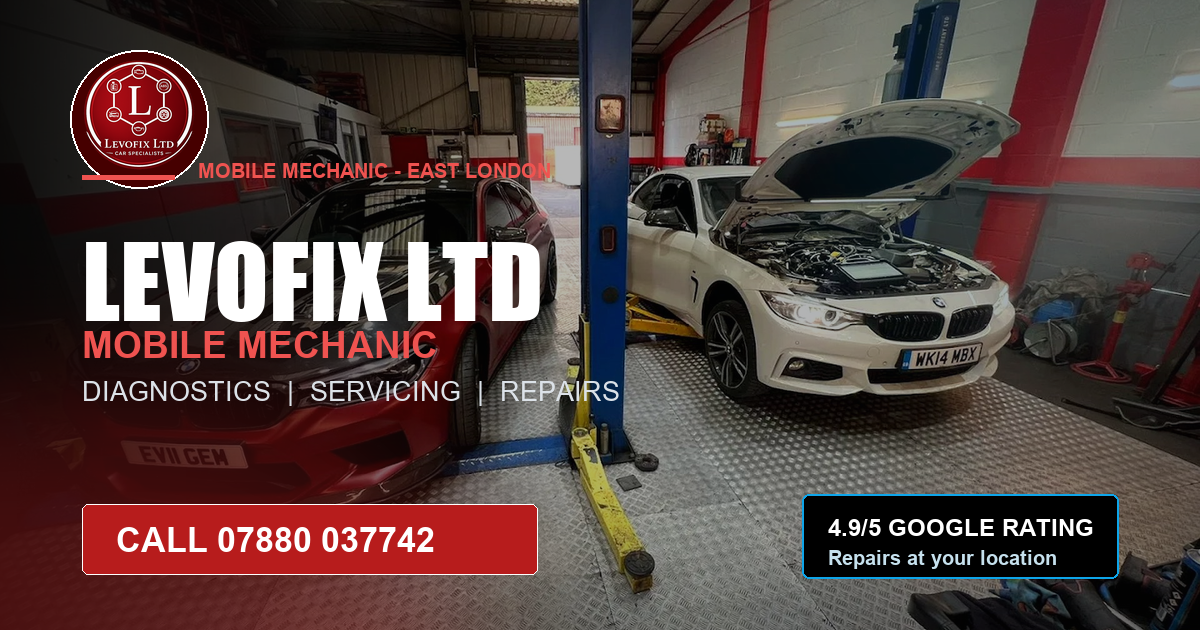
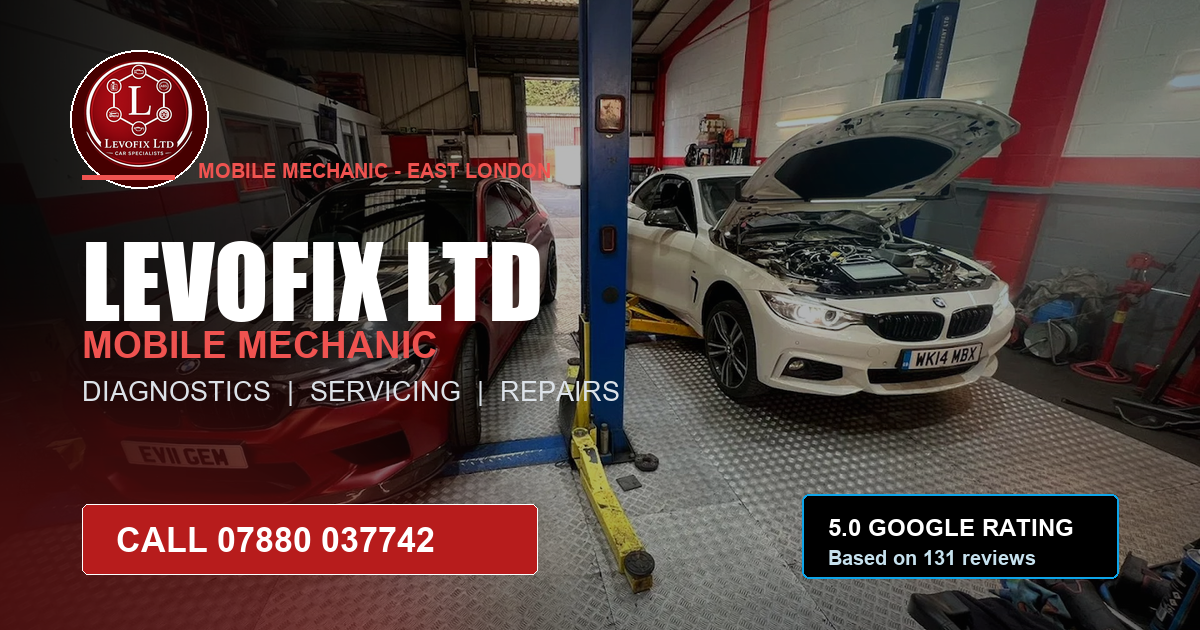
Polish hero header and business details

Changed region(s): [[0.6783, 0.8143, 0.925, 0.9048]]

diff --git a/src/index.css b/src/index.css
@@ -116,6 +116,129 @@
   .animation-delay-700 { animation-delay: 700ms; }
 }
 
+@media (min-width: 1024px) {
+  .site-navbar:not(.border-b) {
+    background: linear-gradient(
+      180deg,
+      rgba(5, 5, 5, 0.72) 0%,
+      rgba(5, 5, 5, 0.42) 58%,
+      rgba(5, 5, 5, 0) 100%
+    );
+  }
+
+  .navbar-brand-title,
+  .navbar-link,
+  .navbar-phone span {
+    text-shadow: 0 2px 12px rgba(0, 0, 0, 0.85);
+  }
+
+  .navbar-brand-subtitle {
+    color: rgba(255, 255, 255, 0.54);
+  }
+
+  .navbar-link {
+    color: rgba(255, 255, 255, 0.68);
+  }
+
+  .navbar-phone {
+    color: rgba(255, 255, 255, 0.7);
+  }
+
+  .navbar-phone > div {
+    background: rgba(14, 165, 233, 0.08);
+    border-color: rgba(14, 165, 233, 0.42);
+  }
+
+  .navbar-phone svg {
+    color: rgba(14, 165, 233, 0.9);
+  }
+
+  .hero-side-stats {
+    right: 5.5rem;
+    bottom: 8rem;
+    gap: 1.45rem;
+    padding-right: 1.35rem;
+    border-right: 2px solid rgba(239, 83, 80, 0.48);
+    filter: drop-shadow(0 12px 28px rgba(0, 0, 0, 0.72));
+  }
+
+  .hero-stat-value {
+    color: rgba(255, 255, 255, 0.52);
+    text-shadow: 0 3px 16px rgba(0, 0, 0, 0.9);
+  }
+
+  .hero-stat-label {
+    color: rgba(255, 255, 255, 0.68);
+    text-shadow: 0 2px 12px rgba(0, 0, 0, 0.95);
+  }
+
+  .hero-side-stats div:nth-child(2) .hero-stat-value {
+    color: rgba(14, 165, 233, 0.9);
+  }
+
+  .hero-side-stats div:nth-child(2) .hero-stat-label {
+    color: rgba(14, 165, 233, 0.92);
+  }
+
+  .hero-scroll button {
+    padding: 0.65rem 0.9rem;
+    border-radius: 999px;
+    background: rgba(5, 5, 5, 0.28);
+    color: rgba(255, 255, 255, 0.5);
+    text-shadow: 0 2px 12px rgba(0, 0, 0, 0.95);
+    backdrop-filter: blur(6px);
+  }
+
+  .hero-scroll button:hover {
+    color: rgba(255, 255, 255, 0.78);
+    background: rgba(5, 5, 5, 0.38);
+  }
+}
+
+@media (max-width: 768px) {
+  body,
+  main {
+    padding-top: 0;
+  }
+
+  .site-navbar {
+    position: fixed;
+    top: 0;
+    left: 0;
+    right: 0;
+    width: 100%;
+    z-index: 1000;
+    margin-top: 0;
+    padding-top: 0 !important;
+    padding-bottom: 0 !important;
+    transform: none;
+    background: rgba(10, 10, 10, 0.96);
+    border-bottom: 1px solid rgba(255, 255, 255, 0.07);
+    box-shadow: 0 10px 28px rgba(0, 0, 0, 0.22);
+    backdrop-filter: blur(14px);
+  }
+
+  .navbar-inner {
+    min-height: calc(78px + env(safe-area-inset-top));
+    padding-top: calc(10px + env(safe-area-inset-top));
+    padding-bottom: 10px;
+  }
+
+  .navbar-row {
+    min-height: 58px;
+    align-items: center;
+  }
+
+  .navbar-brand > div:first-child {
+    width: 58px;
+    height: 58px;
+  }
+
+  .site-navbar button[aria-label='Toggle menu'] {
+    color: rgba(255, 255, 255, 0.82);
+  }
+}
+
 @media (max-width: 768px) {
   .hero {
     min-height: 100svh;
@@ -155,7 +278,7 @@
   }
 
   .hero-shell {
-    padding-top: 112px;
+    padding-top: calc(112px + env(safe-area-inset-top));
     padding-bottom: calc(86px + env(safe-area-inset-bottom));
     min-height: 100svh;
     display: flex;
@@ -239,7 +362,7 @@
   .hero-shell {
     padding-left: 20px;
     padding-right: 20px;
-    padding-top: 104px;
+    padding-top: calc(104px + env(safe-area-inset-top));
     padding-bottom: calc(78px + env(safe-area-inset-bottom));
   }
 
@@ -291,7 +414,7 @@
 
 @media (max-width: 380px) {
   .hero-shell {
-    padding-top: 96px;
+    padding-top: calc(96px + env(safe-area-inset-top));
   }
 
   .hero .hero-title {

diff --git a/src/sections/Navbar.tsx b/src/sections/Navbar.tsx
@@ -39,14 +39,14 @@ const Navbar = ({ scrollY }: NavbarProps) => {
   return (
     <>
       <nav
-        className={`fixed top-0 left-0 right-0 z-50 transition-all duration-500 ${
+        className={`site-navbar fixed top-0 left-0 right-0 z-50 transition-all duration-500 ${
           isScrolled
             ? 'bg-[#0a0a0a]/90 backdrop-blur-xl border-b border-white/5 py-3'
             : 'bg-transparent py-6'
         }`}
       >
-        <div className="w-full section-padding">
-          <div className="flex items-center justify-between">
+        <div className="navbar-inner w-full section-padding">
+          <div className="navbar-row flex items-center justify-between">
             {/* Logo */}
             <a
               href="#home"
@@ -54,16 +54,16 @@ const Navbar = ({ scrollY }: NavbarProps) => {
                 e.preventDefault();
                 scrollToSection('#home');
               }}
-              className="flex items-center gap-3 group"
+              className="navbar-brand flex items-center gap-3 group"
             >
               <div className="w-[4.5rem] h-[4.5rem] rounded-full overflow-hidden transition-all duration-300 group-hover:shadow-glow">
                 <img src="/Logo1.png" alt="Levofix Ltd" className="w-full h-full object-contain" />
               </div>
               <div className="hidden sm:block">
-                <span className="font-bebas text-2xl text-white block leading-none tracking-wider">
+                <span className="navbar-brand-title font-bebas text-2xl text-white block leading-none tracking-wider">
                   LEVOFIX
                 </span>
-                <span className="text-white/30 text-[10px] font-outfit uppercase tracking-[0.2em]">Mobile Mechanic</span>
+                <span className="navbar-brand-subtitle text-white/30 text-[10px] font-outfit uppercase tracking-[0.2em]">Mobile Mechanic</span>
               </div>
             </a>
 
@@ -77,7 +77,7 @@ const Navbar = ({ scrollY }: NavbarProps) => {
                     e.preventDefault();
                     scrollToSection(link.href);
                   }}
-                  className="relative px-5 py-2 text-white/50 hover:text-white transition-colors duration-300 font-outfit text-sm uppercase tracking-wider group"
+                  className="navbar-link relative px-5 py-2 text-white/50 hover:text-white transition-colors duration-300 font-outfit text-sm uppercase tracking-wider group"
                 >
                   {link.name}
                   <span className="absolute bottom-0 left-1/2 -translate-x-1/2 w-0 h-[2px] bg-brand-red group-hover:w-5 transition-all duration-300" />
@@ -89,7 +89,7 @@ const Navbar = ({ scrollY }: NavbarProps) => {
             <div className="hidden lg:flex items-center gap-5">
               <a
                 href="tel:07880037742"
-                className="flex items-center gap-2 text-white/40 hover:text-brand-redLight transition-colors duration-300 group"
+                className="navbar-phone flex items-center gap-2 text-white/40 hover:text-brand-redLight transition-colors duration-300 group"
               >
                 <div className="w-8 h-8 rounded-full border border-brand-blueElectric/20 flex items-center justify-center group-hover:border-brand-blueElectric/50 transition-colors">
                   <Phone className="w-3.5 h-3.5 text-brand-blueElectric/60 group-hover:text-brand-blueElectric" />

diff --git a/index.html b/index.html
@@ -6,7 +6,7 @@
 
     <!-- Primary SEO -->
     <title>Mobile Mechanic London | Levofix LTD — Poplar, East London</title>
-    <meta name="description" content="Levofix LTD — professional mobile mechanic based in Poplar, East London. Car diagnostics, servicing, brakes, suspension & fault finding at your location. Call Denis: 07880 037742. Rated 4.9★ on Google." />
+    <meta name="description" content="Levofix LTD — professional mobile mechanic based in Poplar, East London. Car diagnostics, servicing, brakes, suspension & fault finding at your location. Call Denis: 07880 037742. Rated 5.0★ on Google." />
     <meta name="keywords" content="mobile mechanic london, mobile mechanic east london, mobile mechanic poplar, mobile mechanic e14, car diagnostics london, mobile car mechanic london, car repairs at home london, mobile mechanic canary wharf, engine diagnostics london, brake repair london, mobile mechanic near me, car servicing at home london, pre purchase inspection london" />
     <meta name="robots" content="index, follow" />
     <meta name="author" content="Denis Levoskin — Levofix LTD" />
@@ -16,7 +16,7 @@
     <meta property="og:type" content="website" />
     <meta property="og:url" content="https://www.levofix.co.uk/" />
     <meta property="og:title" content="Mobile Mechanic London | Levofix LTD — Poplar, East London" />
-    <meta property="og:description" content="Professional mobile mechanic based in Poplar, East London. Car diagnostics, servicing, brakes, suspension & fault finding at your location. Rated 4.9★ on Google from 61 reviews." />
+    <meta property="og:description" content="Professional mobile mechanic based in Poplar, East London. Car diagnostics, servicing, brakes, suspension & fault finding at your location. Rated 5.0★ on Google from 131 reviews." />
     <meta property="og:image" content="https://www.levofix.co.uk/og-image.png" />
     <meta property="og:image:width" content="1200" />
     <meta property="og:image:height" content="630" />
@@ -59,10 +59,10 @@
       },
       "address": {
         "@type": "PostalAddress",
-        "streetAddress": "75 Wallwood Street",
+        "streetAddress": "Unit 13, Green Shield Industrial Estate, Bradfield Road",
         "addressLocality": "Poplar",
         "addressRegion": "London",
-        "postalCode": "E14 7GS",
+        "postalCode": "E16 2AU",
         "addressCountry": "GB"
       },
       "geo": {
@@ -102,8 +102,8 @@
       },
       "aggregateRating": {
         "@type": "AggregateRating",
-        "ratingValue": "4.9",
-        "reviewCount": "61",
+        "ratingValue": "5.0",
+        "reviewCount": "131",
         "bestRating": "5",
         "worstRating": "1"
       },
@@ -112,7 +112,7 @@
       "currenciesAccepted": "GBP",
       "foundingDate": "2020",
       "sameAs": [
-        "https://www.google.com/maps/search/Levofix+LTD+75+Wallwood+Street+London+E14+7GS"
+        "https://www.google.com/maps/search/Levofix+Ltd+Mobile+Mechanic+Poplar+Unit+13+Green+Shield+Industrial+Estate+Bradfield+Rd+London+E16+2AU"
       ]
     }
     </script>

diff --git a/src/sections/Hero.tsx b/src/sections/Hero.tsx
@@ -158,7 +158,7 @@ const Hero = () => {
                     <Star key={i} className="w-3 h-3 fill-amber-400 text-amber-400" />
                   ))}
                 </div>
-                <span className="text-xs font-outfit tracking-wider">4.9 / 5</span>
+                <span className="text-xs font-outfit tracking-wider">5.0 / 5</span>
               </div>
             </motion.div>
           </div>
@@ -168,16 +168,16 @@ const Hero = () => {
             initial={{ opacity: 0, x: 30 }}
             animate={{ opacity: 1, x: 0 }}
             transition={{ duration: 0.8, delay: 0.7, ease: [0.22, 1, 0.36, 1] }}
-            className="hidden xl:flex absolute right-20 bottom-24 flex-col items-end gap-8"
+            className="hero-side-stats hidden xl:flex absolute right-20 bottom-24 flex-col items-end gap-8"
           >
             {[
               { value: '18+', label: 'YEARS', accent: false },
-              { value: '4.9', label: 'RATING', accent: true },
-              { value: '61', label: 'REVIEWS', accent: false },
+              { value: '5.0', label: 'RATING', accent: true },
+              { value: '131', label: 'REVIEWS', accent: false },
             ].map(({ value, label, accent }) => (
               <div key={label} className="text-right">
-                <span className={`font-bebas text-5xl block leading-none ${accent ? 'text-brand-blueElectric/15' : 'text-white/10'}`}>{value}</span>
-                <span className={`text-[10px] tracking-[0.3em] font-outfit ${accent ? 'text-brand-blueElectric/25' : 'text-white/20'}`}>{label}</span>
+                <span className={`hero-stat-value font-bebas text-5xl block leading-none ${accent ? 'text-brand-blueElectric/15' : 'text-white/10'}`}>{value}</span>
+                <span className={`hero-stat-label text-[10px] tracking-[0.3em] font-outfit ${accent ? 'text-brand-blueElectric/25' : 'text-white/20'}`}>{label}</span>
               </div>
             ))}
           </motion.div>
@@ -189,7 +189,7 @@ const Hero = () => {
         initial={{ opacity: 0 }}
         animate={{ opacity: 1 }}
         transition={{ delay: 1.2, duration: 0.8 }}
-        className="absolute bottom-8 left-1/2 -translate-x-1/2 z-10"
+        className="hero-scroll absolute bottom-8 left-1/2 -translate-x-1/2 z-10"
       >
         <button
           onClick={() => scrollToSection('#about')}

diff --git a/src/sections/Reviews.tsx b/src/sections/Reviews.tsx
@@ -40,7 +40,7 @@ const reviews = [
 ];
 
 const GOOGLE_REVIEWS_URL =
-  'https://www.google.com/maps/search/Levofix+LTD+75+Wallwood+Street+London+E14+7GS';
+  'https://www.google.com/maps/search/Levofix+Ltd+Mobile+Mechanic+Poplar+Unit+13+Green+Shield+Industrial+Estate+Bradfield+Rd+London+E16+2AU';
 
 const fadeUp = {
   hidden: { opacity: 0, y: 30 },
@@ -103,9 +103,9 @@ const Reviews = () => {
                       <Star key={i} className="w-3.5 h-3.5 fill-amber-400 text-amber-400" />
                     ))}
                   </div>
-                  <span className="font-bebas text-2xl text-black/80 leading-none">4.9</span>
+                  <span className="font-bebas text-2xl text-black/80 leading-none">5.0</span>
                 </div>
-                <span className="text-black/35 text-[10px] font-outfit tracking-wider">from 61 reviews</span>
+                <span className="text-black/35 text-[10px] font-outfit tracking-wider">from 131 reviews</span>
               </div>
             </div>
           </motion.div>
@@ -163,8 +163,8 @@ const Reviews = () => {
                   <Star key={i} className="w-5 h-5 fill-amber-400 text-amber-400" />
                 ))}
               </div>
-              <span className="font-bebas text-6xl text-black/80 leading-none mb-1">4.9</span>
-              <span className="text-black/35 text-xs font-outfit tracking-wider mb-6">Based on 61 Google reviews</span>
+              <span className="font-bebas text-6xl text-black/80 leading-none mb-1">5.0</span>
+              <span className="text-black/35 text-xs font-outfit tracking-wider mb-6">Based on 131 Google reviews</span>
               <motion.a
                 href={GOOGLE_REVIEWS_URL}
                 target="_blank"

diff --git a/src/sections/ServiceArea.tsx b/src/sections/ServiceArea.tsx
@@ -10,7 +10,7 @@ const areas = [
 ];
 
 const GOOGLE_MAPS_URL =
-  'https://www.google.com/maps/search/Levofix+LTD+75+Wallwood+Street+London+E14+7GS';
+  'https://www.google.com/maps/search/Levofix+Ltd+Mobile+Mechanic+Poplar+Unit+13+Green+Shield+Industrial+Estate+Bradfield+Rd+London+E16+2AU';
 
 const fadeUp = {
   hidden: { opacity: 0, y: 30 },
@@ -53,7 +53,7 @@ const ServiceArea = () => {
                   & GREATER LONDON
                 </h2>
                 <p className="text-white/35 text-base leading-relaxed mb-10 font-outfit font-light max-w-lg">
-                  Levofix LTD is based in Poplar, East London (E14) and covers a wide area
+                  Levofix LTD is based in Poplar, East London (E16 2AU) and covers a wide area
                   across Greater London. Our team travels to your location — whether that's a
                   residential street, workplace car park or roadside.
                 </p>
@@ -68,7 +68,7 @@ const ServiceArea = () => {
                 className="space-y-3 mb-10"
               >
                 {[
-                  { icon: MapPin, title: 'Based In', desc: 'Poplar, East London — E14 7GS' },
+                  { icon: MapPin, title: 'Based In', desc: 'Unit 13, Green Shield Industrial Estate, E16 2AU' },
                   { icon: Navigation, title: 'Coverage', desc: 'East London, Greater London & surrounding areas', blue: true },
                   { icon: Phone, title: 'Not sure if we cover your area?', desc: 'call', href: 'tel:07880037742', linkText: 'Call Us — 07880 037742' },
                 ].map(({ icon: Icon, title, desc, href, linkText, blue }: any) => (

diff --git a/src/sections/About.tsx b/src/sections/About.tsx
@@ -75,7 +75,7 @@ const About = () => {
                 >
                   <div className="flex items-center gap-1.5">
                     <span className="text-amber-500 text-sm">★</span>
-                    <span className="font-bebas text-2xl text-black/80 leading-none">4.9</span>
+                    <span className="font-bebas text-2xl text-black/80 leading-none">5.0</span>
                   </div>
                   <span className="text-brand-blueElectric/50 text-[9px] tracking-[0.15em] uppercase font-outfit">Google Rating</span>
                 </motion.div>

diff --git a/src/sections/CTA.tsx b/src/sections/CTA.tsx
@@ -155,7 +155,7 @@ const CTA = () => {
             {[
               { icon: Phone, label: 'Phone', value: '07880 037742', href: 'tel:07880037742' },
               { icon: Clock, label: 'Hours', value: 'Mon-Fri: 8:30am - 6:00pm' },
-              { icon: MapPin, label: 'Based In', value: 'Poplar, East London' },
+              { icon: MapPin, label: 'Based In', value: 'Unit 13, Green Shield Industrial Estate' },
             ].map(({ icon: Icon, label, value, href }) => (
               <motion.div
                 key={label}

diff --git a/src/sections/WhyChooseUs.tsx b/src/sections/WhyChooseUs.tsx
@@ -34,9 +34,9 @@ const reasons = [
 
 const stats = [
   { value: '18+', label: 'Years Experience', blue: false },
-  { value: '4.9★', label: 'Google Rating', blue: true },
-  { value: '61', label: 'Verified Reviews', blue: true },
-  { value: 'E14', label: 'Based in Poplar', blue: false },
+  { value: '5.0/5', label: 'Google Rating', blue: true },
+  { value: '131', label: 'Verified Reviews', blue: true },
+  { value: 'E16', label: 'Based in Poplar', blue: false },
 ];
 
 const fadeUp = {
